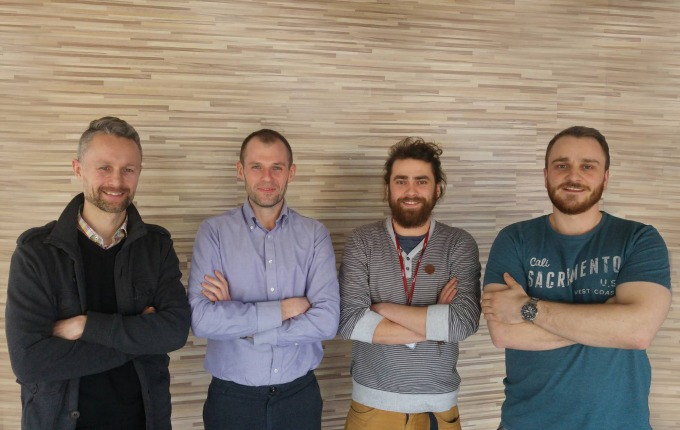
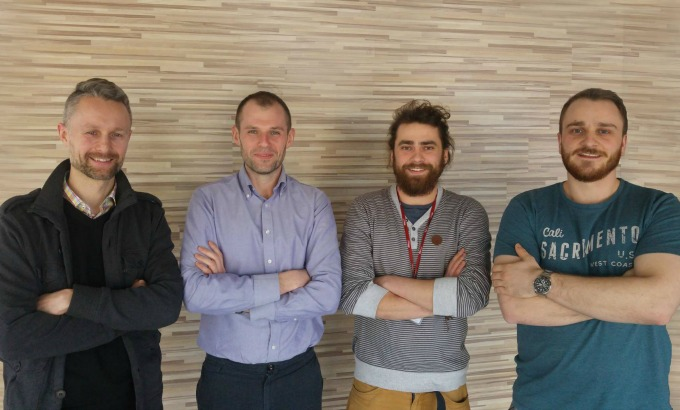
Zmniejszenie rozdzielczości zdjęcia.

diff --git a/styles/main.css b/styles/main.css
@@ -1,7 +1,7 @@
 .oNas {
     float:left;
     width: 680px;
-    height: 430px;
+    height: 410px;
     margin: 24px 14px 14px 14px;
     border: solid 1px darkgrey;
     box-shadow: 0 0 15px 5px darkgray;
@@ -15,19 +15,20 @@
 .oNas p {
     color: white;
     font-family: Helvetica, sans-serif;
-    font-size: 20px;
-    font-weight: bold;
+    font-size: 15px;
+    /*font-weight: bold;*/
+    line-height: 110%;
     background: rgba(0, 0, 0, 0.7);
     padding: 5px;
     position: relative;
     text-align: center;
-    top: -143px;
+    top: -128px;
 }
 
 .oNas h4 {
 font-size: 30px;
 position: relative;
-top: -400px;
+top: -380px;
 text-align: right;
 }
 

diff --git a/index.html b/index.html
@@ -63,7 +63,7 @@
     <div class="oNas">
         <img src="images/oNas.jpg" alt="Drwale">
         <h4><span>O nas</span></h4>
-        <p>Cześć! <br> To my kryjemy się za projektem “Zabytki Gdańska”. Czterech chłopaków - Michał, Michał, Kuba i Paweł - którzy chcą zostać web developerami. Znajdziesz nas w Gdańsku w Olivia Business Centre. <br> Zapraszamy do kontaktu.
+        <p>Cześć! <br> To my kryjemy się za projektem “Zabytki Gdańska”. Czterech chłopaków - Michał, Michał, Kuba i Paweł - którzy chcą zostać web developerami. Znajdziesz nas w Olivia Business Centre. <br> Zapraszamy do kontaktu.
         </p>
     </div>
 
